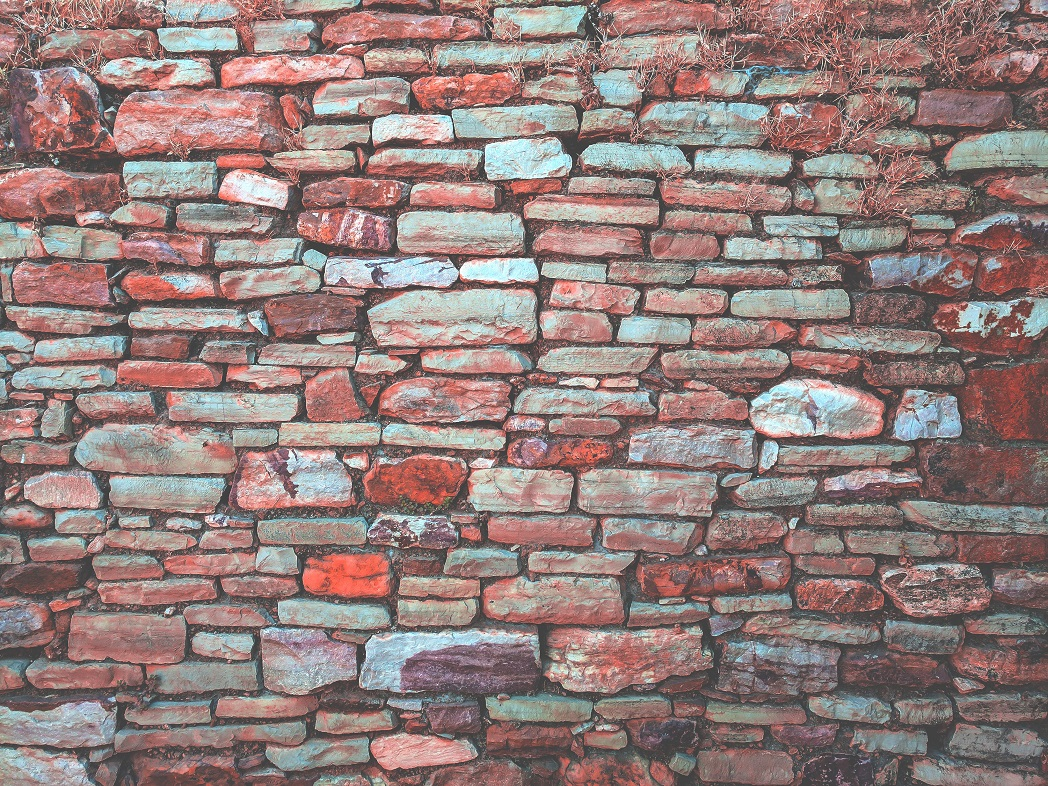
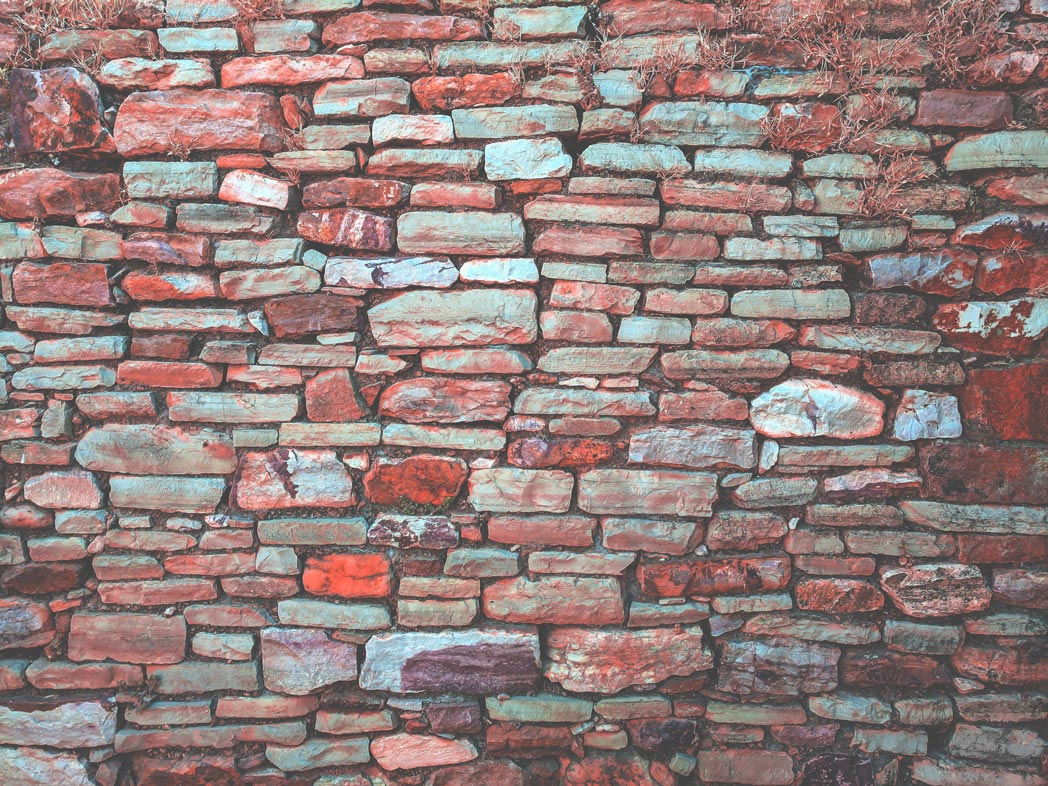
image optimizations

diff --git a/index.html b/index.html
@@ -7,7 +7,7 @@
 	<title>Raja Singhal</title>
 	<meta name="viewport" content="width=device-width, initial-scale=1">
 
-	<link rel="shortcut icon" href="images/Logo.png">
+	<link rel="shortcut icon" href="images/Logo.jpg">
 	<link rel="stylesheet" href="css/animate.css">
 	<link rel="stylesheet" href="css/icomoon.css">
 	<link rel="stylesheet" href="css/bootstrap.css">
